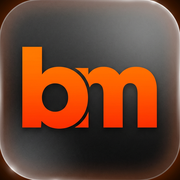
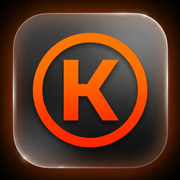
Add files via upload

diff --git a/index.html b/index.html
@@ -3,13 +3,13 @@
 <head>
 <meta charset="utf-8">
 <meta name="viewport" content="width=device-width, initial-scale=1, viewport-fit=cover">
-<title>Кирилл — bumazhnyk AI</title>
+<title>Кирилл — kenwerz</title>
 <meta name="description" content="Кирилл — AI-креатор. Видео и визуал для бизнеса: реклама, объяснение услуг, визуализация. Кейсы, услуги, контакты.">
 <meta property="og:type" content="website">
-<meta property="og:title" content="Кирилл — bumazhnyk AI">
+<meta property="og:title" content="Кирилл — kenwerz">
 <meta property="og:description" content="AI-видео и визуал для бизнеса: реклама, объяснение услуг, визуализация.">
 <meta name="theme-color" content="#070707">
[2 lines of base64/hex data omitted]
 <link rel="icon" href="/favicon.ico" sizes="48x48">
 <link rel="apple-touch-icon" href="/apple-touch-icon.png">
 <link rel="preconnect" href="https://fonts.googleapis.com">
@@ -182,9 +182,8 @@ body{transition:background-color .35s,color .35s}
 @media(max-width:620px){.wr{width:38px;height:38px;padding:0;display:grid;place-items:center}.wr span{display:none}.wr .wi{display:block}}
 @media(max-width:480px){.wr{width:34px;height:34px;padding:0}}
 .ics{gap:14px}
-.ic{height:58px;padding:0 24px 0 18px;border-radius:999px;display:inline-flex;align-items:center;gap:12px;font:600 16px var(--font);color:#fff;text-decoration:none;background:linear-gradient(135deg,var(--o1),var(--o2));box-shadow:0 8px 26px rgba(255,90,0,.4);transition:transform .25s,box-shadow .25s}
-.ic svg{width:24px;height:24px;flex:none}
-.ic span{white-space:nowrap}
+.ic{width:60px;height:60px;border-radius:50%;display:grid;place-items:center;color:#fff;text-decoration:none;background:linear-gradient(135deg,var(--o1),var(--o2));box-shadow:0 8px 26px rgba(255,90,0,.4);transition:transform .25s,box-shadow .25s}
+.ic svg{width:26px;height:26px}
 .ic:hover{transform:translateY(-3px) scale(1.05);box-shadow:0 12px 32px rgba(255,90,0,.55)}
 [data-theme="light"] .ic{box-shadow:0 8px 22px rgba(21,96,214,.32)}
 [data-theme="light"] .ic:hover{box-shadow:0 12px 30px rgba(21,96,214,.45)}
@@ -193,7 +192,7 @@ body{transition:background-color .35s,color .35s}
 <body>
 <div class="wrap" id="top">
   <header>
-    <a class="brand" href="#top"><b>bumazhnyk AI</b></a>
+    <a class="brand" href="#top"><b>kenwerz</b></a>
     <div class="hr">
       <button class="theme" id="theme" type="button" aria-label="Theme" title="Theme"><svg class="sun" viewBox="0 0 24 24" fill="none" stroke="currentColor" stroke-width="2" stroke-linecap="round" aria-hidden="true"><circle cx="12" cy="12" r="4"/><path d="M12 2v2M12 20v2M4.9 4.9l1.4 1.4M17.7 17.7l1.4 1.4M2 12h2M20 12h2M4.9 19.1l1.4-1.4M17.7 6.3l1.4-1.4"/></svg><svg class="moon" viewBox="0 0 24 24" fill="none" stroke="currentColor" stroke-width="2" stroke-linecap="round" stroke-linejoin="round" aria-hidden="true"><path d="M21 12.8A9 9 0 1 1 11.2 3a7 7 0 0 0 9.8 9.8z"/></svg></button>
       <div class="lang" role="group" aria-label="Language"><button data-l="ru">RU</button><button data-l="en">EN</button><button data-l="uk">UA</button></div>
@@ -249,12 +248,12 @@ body{transition:background-color .35s,color .35s}
       <h2 data-i="contT"></h2>
       <div class="contact glass">
         <p data-i="contP"></p>
-        <div class="btns ics"><a class="ic tg" href="https://t.me/bumazhnyk" target="_blank" rel="noopener" aria-label="Telegram" title="Telegram"><svg viewBox="0 0 24 24" fill="none" stroke="currentColor" stroke-width="2" stroke-linecap="round" stroke-linejoin="round" aria-hidden="true"><line x1="22" y1="2" x2="11" y2="13"/><polygon points="22 2 15 22 11 13 2 9 22 2"/></svg><span>bumazhnyk</span></a><a class="ic" href="mailto:bumazhnyk@gmail.com" aria-label="Email" title="bumazhnyk@gmail.com"><svg viewBox="0 0 24 24" fill="none" stroke="currentColor" stroke-width="2" stroke-linecap="round" stroke-linejoin="round" aria-hidden="true"><rect x="3" y="5" width="18" height="14" rx="3"/><path d="m4 7.5 8 6 8-6"/></svg><span>bumazhnyk@gmail.com</span></a></div>
+        <div class="btns ics"><a class="ic tg" href="https://t.me/bumazhnyk" target="_blank" rel="noopener" aria-label="Telegram" title="Telegram"><svg viewBox="0 0 24 24" fill="none" stroke="currentColor" stroke-width="2" stroke-linecap="round" stroke-linejoin="round" aria-hidden="true"><line x1="22" y1="2" x2="11" y2="13"/><polygon points="22 2 15 22 11 13 2 9 22 2"/></svg></a><a class="ic" href="mailto:bumazhnyk@gmail.com" aria-label="Email" title="bumazhnyk@gmail.com"><svg viewBox="0 0 24 24" fill="none" stroke="currentColor" stroke-width="2" stroke-linecap="round" stroke-linejoin="round" aria-hidden="true"><rect x="3" y="5" width="18" height="14" rx="3"/><path d="m4 7.5 8 6 8-6"/></svg></a></div>
       </div>
       <div class="quick"><span data-i="quick"></span><div id="qk"></div></div>
     </section>
   </main>
-  <footer>© 2026 Кирилл · bumazhnyk AI</footer>
+  <footer>© 2026 Кирилл · kenwerz</footer>
 </div>
 
 <dialog id="dlg"><div class="modal glass">
@@ -264,48 +263,117 @@ body{transition:background-color .35s,color .35s}
 
 <script>
 const T={
-ru:{role:"AI-креатор · видео и визуал для бизнеса",h1:["Видео, которое привлекает","<b>клиентов</b>, без съёмочной","группы и студии"],
+ru:{role:"AI-креатор · видео и визуал для бизнеса",
+ h1:["Видео, которое привлекает","<b>клиентов</b>, без съёмочной","группы и студии"],
  sub:"Меня зовут <b>Кирилл</b>. Создаю AI-видео и визуал под вашу задачу: привлечь охваты, объяснить услугу или показать то, что сложно снять. Вы получаете готовый материал, а не набор красивых картинок.",
- c1:"Готово под вашу площадку",c2:"Показываю то, что дорого снять",c3:"Узнаваемый стиль бренда",cta:"Обсудить проект",ghW:"Cases",ghS:"Value",
- worksT:"Кейсы",servT:"Что вы <b>получаете</b>",toolsT:"Инструменты",revT:"Отзывы",rev:"Здесь появятся отзывы клиентов.",contT:"Обсудим вашу <b>задачу</b>",contP:"Опишите, что нужно показать и где будет жить видео. Предложу формат и сроки.",
- hi:"Привет!",nav1:"Кейсы",nav2:"Услуги",nav3:"Контакты",write:"Написать",quick:"Быстрый старт: выберите тему, и сообщение в Telegram уже будет написано.",tgmsg:"Здравствуйте, Кирилл! Хочу обсудить видео. Моя задача: ",tgq:"Здравствуйте, Кирилл! Хочу обсудить: ",views:"просмотров",lviews:"Результат",snd:"Включить звук",close:"Закрыть",watch:"Видео скоро будет здесь",lt:"Ниша",ltask:"Задача",lsol:"Решение",lfmt:"Формат",
+ c1:"Готово под вашу площадку",
+ c2:"Показываю то, что дорого снять",
+ c3:"Узнаваемый стиль бренда",
+ cta:"Обсудить проект",
+ ghW:"Cases",
+ ghS:"Value",
+ worksT:"Кейсы",
+ servT:"Что вы <b>получаете</b>",
+ toolsT:"Инструменты",
+ revT:"Отзывы",
+ rev:"Здесь появятся отзывы клиентов.",
+ contT:"Обсудим вашу <b>задачу</b>",
+ contP:"Опишите, что нужно показать и где будет жить видео. Предложу формат и сроки.",
+ hi:"Привет!",
+ nav1:"Кейсы",
+ nav2:"Услуги",
+ nav3:"Контакты",
+ write:"Написать",
+ quick:"Быстрый старт: выберите тему, и сообщение в Telegram уже будет написано.",
+ tgmsg:"Здравствуйте, Кирилл! Хочу обсудить видео. Моя задача: ",
+ tgq:"Здравствуйте, Кирилл! Хочу обсудить: ",
+ views:"просмотров",
+ lviews:"Результат",
+ snd:"Включить звук",
+ close:"Закрыть",
+ watch:"Видео скоро будет здесь",
+ lt:"Ниша",
+ ltask:"Задача",
+ lsol:"Решение",
+ lfmt:"Формат",
  serv:[["Видео для продвижения","Рекламные и имиджевые ролики, которые собирают охваты и запоминаются."],["Объяснение услуги","Наглядное видео: клиент понимает ценность ещё до первого звонка."],["Визуализация","Процессы, продукты и результаты, которые сложно или дорого снять."],["Контент для бренда","Единый визуальный стиль: видео, изображения, обложки."]],
- w:[{n:"Sublimini store",tag:"Сублимированные фрукты",v:"500K+",s:"Выделить бренд и набрать охваты через сюжет на контрасте поколений.",task:"Рассказать о продукте так, чтобы ролик набирал охваты, а бренд запоминался.",sol:"Сюжет-сравнение двух подходов: бабушкин и современной мамы. Преимущество продукта раскрывается через историю, а не прямую рекламу.",fmt:"Reels · сюжетный ролик"},
- {n:"Lumina · Герметизация фиссур",tag:"Стоматология",v:"80K",s:"Детально показать, как проходит герметизация фиссур.",task:"Детально и наглядно продемонстрировать процесс герметизации фиссур, чтобы пациенты понимали, что происходит с зубом и зачем это нужно.",sol:"AI-визуализация каждого этапа процедуры крупным планом в динамичном вертикальном видео.",fmt:"Reels · AI-визуализация"},
- {n:"Lumina · Имплантация",tag:"Стоматология",v:"",s:"Наглядно показать пациентам ход и результат имплантации.",task:"Объяснить пациентам, как проходит имплантация и каким становится результат, понятно и без тяжёлых медицинских кадров.",sol:"AI-визуализация этапов процедуры и демонстрация готового результата в динамичном вертикальном видео.",fmt:"Reels · AI-визуализация"},
- {n:"Окно",tag:"Гиперреализм · Сюжет",v:"",s:"Кинематографичная история, где гиперреализм работает на сюжет.",task:"Показать, на что способен AI-видеопродакшн в игровом кино: удержать фотореализм, живую актёрскую игру и цельную историю без съёмочной группы.",sol:"Сюжет о девушке и таинственном пульте, который меняет реальность за окном. Реалистичный свет, кожа и мимика, неизменный образ героини от кадра к кадру и плавный переход от бытовой сцены к сюрреалистичным пейзажам.",fmt:"Кинематографичный ролик · 16:9"},
- {n:"Подруги в старости",tag:"3D-мультфильм",v:"",s:"Персональный анимационный подарок: две подруги в образе из будущего.",task:"Клиентка обратилась с запросом создать видео о себе и подруге в старости: тёплое, стильное, с юмором, которым хочется поделиться.",sol:"Индивидуальная 3D-анимация в стиле полнометражного мультфильма. Героини узнаваемы по характеру и образу, а сюжет ведёт от видеозвонка к путешествию по Лазурному берегу: яхты, шопинг, спа и вечерний выход. Продуманная драматургия и кинематографичная подача.",fmt:"Reels · персональный анимационный ролик"},
- {n:"Витрина",tag:"Ретро-нуар",v:"",s:"Стилизованная киноистория в эстетике 80-х с цельной визуальной режиссурой.",task:"Показать, что AI-видео может не только объяснять и продавать, но и рассказывать полноценную киноисторию с выдержанным стилем, светом и актёрской подачей.",sol:"Динамичный сюжет в духе ретро-нуара: ночной город в сумерках, разбитая витрина, дерзкая поездка на кабриолете и кадр на Polaroid. Единый киношный цветокор с неоном и закатным небом, узнаваемая героиня на протяжении всего ролика, нарастающий темп монтажа и субтитры.",fmt:"Кинематографичный ролик · 16:9"}]},
-en:{role:"AI creator · video and visuals for business",h1:["Video that attracts","<b>clients</b>, without a crew","or a studio"],
+ w:[{"n":"Точка невозврата","tag":"Кинотрейлер · Драма","v":"","s":"Тёмная криминальная драма с кинематографичным светом и живой актёрской игрой.","task":"Показать, что AI-видео способно держать напряжение полноценного кино: драматургию, атмосферу и узнаваемых героев на протяжении всего ролика.","sol":"Трейлерный монтаж в эстетике нуара: ночные локации, дым и контровой свет, крупные планы героини, которая ведёт историю, напряжённые сцены и пожар в финале. Единый цветокор и стабильные образы персонажей от кадра к кадру.","fmt":"Кинематографичный ролик · 16:9"},{"n":"Lumina · Ортодонтия","tag":"Стоматология","v":"","s":"Наглядно показать путь от неровного прикуса к ровной улыбке.","task":"Объяснить пациентам, как проходит исправление прикуса и каким становится результат, чтобы снять сомнения перед лечением.","sol":"Пошаговая визуализация лечения крупным планом: исходное положение зубов, этап с брекет-системой, ретейнер и итоговая улыбка. Чистый свет и понятная последовательность без тяжёлых медицинских кадров.","fmt":"Ролик · AI-визуализация · 16:9"},{"n":"Окно","tag":"Гиперреализм · Сюжет","v":"","s":"Кинематографичная история, где гиперреализм работает на сюжет.","task":"Показать, на что способен AI-видеопродакшн в игровом кино: удержать фотореализм, живую актёрскую игру и цельную историю без съёмочной группы.","sol":"Сюжет о девушке и таинственном пульте, который меняет реальность за окном. Реалистичный свет, кожа и мимика, неизменный образ героини от кадра к кадру и плавный переход от бытовой сцены к сюрреалистичным пейзажам.","fmt":"Кинематографичный ролик · 16:9"},{"n":"Lumina · Имплантация","tag":"Стоматология","v":"","s":"Наглядно показать пациентам ход и результат имплантации.","task":"Объяснить пациентам, как проходит имплантация и каким становится результат, понятно и без тяжёлых медицинских кадров.","sol":"AI-визуализация этапов процедуры и демонстрация готового результата в динамичном вертикальном видео.","fmt":"Reels · AI-визуализация"},{"n":"Lumina Vita · Постер","tag":"Бренд · Рекламный ролик","v":"","s":"Рекламный ролик, где постер оживает и раскрывает образ бренда.","task":"Эффектно показать бренд Lumina Vita, чтобы ролик цеплял с первых секунд и работал на узнаваемость.","sol":"История с большим постером на фасаде: героиня подходит и отрывает кусок бумаги, а под ним раскрывается образ. Макро-планы рук и рваной бумаги, мягкий дневной свет, живая фактура и логотип бренда в кадре.","fmt":"Reels · рекламный ролик"},{"n":"Витрина","tag":"Ретро-нуар","v":"","s":"Стилизованная киноистория в эстетике 80-х с цельной визуальной режиссурой.","task":"Показать, что AI-видео может не только объяснять и продавать, но и рассказывать полноценную киноисторию с выдержанным стилем, светом и актёрской подачей.","sol":"Динамичный сюжет в духе ретро-нуара: ночной город в сумерках, разбитая витрина, дерзкая поездка на кабриолете и кадр на Polaroid. Единый киношный цветокор с неоном и закатным небом, узнаваемая героиня на протяжении всего ролика, нарастающий темп монтажа и субтитры.","fmt":"Кинематографичный ролик · 16:9"}]},
+en:{role:"AI creator · video and visuals for business",
+ h1:["Video that attracts","<b>clients</b>, without a crew","or a studio"],
  sub:"My name is <b>Kirill</b>. I create AI video and visuals for your goal: win reach, explain a service, or show what is hard to film. You get ready-to-use material, not a set of pretty pictures.",
- c1:"Ready for your platform",c2:"Shows what is costly to film",c3:"Recognizable brand style",cta:"Discuss a project",ghW:"Cases",ghS:"Value",
- worksT:"Cases",servT:"What you <b>get</b>",toolsT:"Tools",revT:"Reviews",rev:"Client reviews will appear here.",contT:"Let's discuss your <b>task</b>",contP:"Describe what needs to be shown and where the video will live. I'll suggest a format and timing.",
- hi:"Hi!",nav1:"Cases",nav2:"Services",nav3:"Contact",write:"Write me",quick:"Quick start: pick a topic and the Telegram message is already written.",tgmsg:"Hi Kirill! I'd like to discuss a video. My task: ",tgq:"Hi Kirill! I'd like to discuss: ",views:"views",lviews:"Result",snd:"Turn sound on",close:"Close",watch:"Video coming soon",lt:"Industry",ltask:"Task",lsol:"Solution",lfmt:"Format",
+ c1:"Ready for your platform",
+ c2:"Shows what is costly to film",
+ c3:"Recognizable brand style",
+ cta:"Discuss a project",
+ ghW:"Cases",
+ ghS:"Value",
+ worksT:"Cases",
+ servT:"What you <b>get</b>",
+ toolsT:"Tools",
+ revT:"Reviews",
+ rev:"Client reviews will appear here.",
+ contT:"Let's discuss your <b>task</b>",
+ contP:"Describe what needs to be shown and where the video will live. I'll suggest a format and timing.",
+ hi:"Hi!",
+ nav1:"Cases",
+ nav2:"Services",
+ nav3:"Contact",
+ write:"Write me",
+ quick:"Quick start: pick a topic and the Telegram message is already written.",
+ tgmsg:"Hi Kirill! I'd like to discuss a video. My task: ",
+ tgq:"Hi Kirill! I'd like to discuss: ",
+ views:"views",
+ lviews:"Result",
+ snd:"Turn sound on",
+ close:"Close",
+ watch:"Video coming soon",
+ lt:"Industry",
+ ltask:"Task",
+ lsol:"Solution",
+ lfmt:"Format",
  serv:[["Promo video","Ad and brand videos that win reach and stay in memory."],["Service explainer","A clear video: clients grasp the value before the first call."],["Visualization","Processes, products and results that are hard or costly to film."],["Brand content","One visual style: video, images, covers."]],
- w:[{n:"Sublimini store",tag:"Freeze-dried fruit",v:"500K+",s:"Stand out and gain reach through a story of two generations.",task:"Present the product so the video wins reach and the brand is remembered.",sol:"A story comparing two approaches: grandma's and a modern mom's. The product's advantage emerges from the story, not direct advertising.",fmt:"Reels · story video"},
- {n:"Lumina · Fissure sealing",tag:"Dental clinic",v:"80K",s:"Show in detail how fissure sealing is done.",task:"Demonstrate the fissure sealing process in detail, so patients understand what happens to the tooth and why it matters.",sol:"AI visualization of every stage of the procedure in close-up, in a dynamic vertical video.",fmt:"Reels · AI visualization"},
- {n:"Lumina · Dental implants",tag:"Dental clinic",v:"",s:"Show patients the process and result of an implant clearly.",task:"Explain to patients how an implant procedure goes and what the result looks like, clearly and without heavy medical footage.",sol:"AI visualization of the procedure stages and a showcase of the finished result in a dynamic vertical video.",fmt:"Reels · AI visualization"},
- {n:"The Window",tag:"Hyperrealism · Story",v:"",s:"A cinematic story where hyperrealism serves the plot.",task:"Show what AI video production can do in narrative film: keep photorealism, natural acting and a coherent story without a film crew.",sol:"A story about a girl and a mysterious remote that changes the reality outside her window. Realistic light, skin and facial expressions, a consistent look for the heroine from shot to shot, and a smooth shift from an everyday scene to surreal landscapes.",fmt:"Cinematic video · 16:9"},
- {n:"Friends in Old Age",tag:"3D animation",v:"",s:"A personal animated gift: two friends as they will be in the future.",task:"A client asked for a video of herself and her friend in old age: warm, stylish and funny enough that they would want to share it.",sol:"A custom 3D animation in the style of a feature-length cartoon. The heroines are recognizable by character and look, and the story moves from a video call to a trip along the French Riviera: yachts, shopping, spa and an evening out. Considered storytelling and a cinematic finish.",fmt:"Reels · personal animated video"},
- {n:"Shop Window",tag:"Retro noir",v:"",s:"A stylized cinematic story in 80s aesthetics with cohesive visual direction.",task:"Show that AI video can do more than explain and sell: it can tell a full cinematic story with a consistent style, lighting and acting.",sol:"A dynamic retro-noir plot: a dusk city at night, a shattered shop window, a bold ride in a convertible and a Polaroid snapshot. One cinematic color grade with neon and a sunset sky, a recognizable heroine throughout, a building editing tempo and subtitles.",fmt:"Cinematic video · 16:9"}]},
-uk:{role:"AI-креатор · відео та візуал для бізнесу",h1:["Відео, яке залучає","<b>клієнтів</b>, без знімальної","групи та студії"],
+ w:[{"n":"Point of No Return","tag":"Cinematic trailer · Drama","v":"","s":"A dark crime drama with cinematic lighting and natural acting.","task":"Show that AI video can hold the tension of a full film: drama, atmosphere and recognizable characters throughout the whole piece.","sol":"A noir-style trailer cut: night locations, smoke and backlight, close-ups of the heroine who leads the story, tense scenes and a burning house in the finale. One consistent color grade and stable characters from shot to shot.","fmt":"Cinematic video · 16:9"},{"n":"Lumina · Orthodontics","tag":"Dental clinic","v":"","s":"Show the path from crooked teeth to an even smile.","task":"Explain to patients how bite correction works and what the result looks like, to ease doubts before treatment.","sol":"A step-by-step close-up visualization of treatment: the starting position of the teeth, the braces stage, the retainer and the final smile. Clean light and a clear sequence without heavy medical footage.","fmt":"Video · AI visualization · 16:9"},{"n":"The Window","tag":"Hyperrealism · Story","v":"","s":"A cinematic story where hyperrealism serves the plot.","task":"Show what AI video production can do in narrative film: keep photorealism, natural acting and a coherent story without a film crew.","sol":"A story about a girl and a mysterious remote that changes the reality outside her window. Realistic light, skin and facial expressions, a consistent look for the heroine from shot to shot, and a smooth shift from an everyday scene to surreal landscapes.","fmt":"Cinematic video · 16:9"},{"n":"Lumina · Dental implants","tag":"Dental clinic","v":"","s":"Show patients the process and result of an implant clearly.","task":"Explain to patients how an implant procedure goes and what the result looks like, clearly and without heavy medical footage.","sol":"AI visualization of the procedure stages and a showcase of the finished result in a dynamic vertical video.","fmt":"Reels · AI visualization"},{"n":"Lumina Vita · Poster","tag":"Brand · Promo video","v":"","s":"A promo video where a poster comes alive and reveals the brand image.","task":"Present the Lumina Vita brand with impact, so the video hooks from the first seconds and builds recognition.","sol":"A story built around a large poster on a building facade: the heroine walks up and tears off a piece of paper, revealing the image beneath. Macro shots of hands and torn paper, soft daylight, tactile texture and the brand logo in frame.","fmt":"Reels · promo video"},{"n":"Shop Window","tag":"Retro noir","v":"","s":"A stylized cinematic story in 80s aesthetics with cohesive visual direction.","task":"Show that AI video can do more than explain and sell: it can tell a full cinematic story with a consistent style, lighting and acting.","sol":"A dynamic retro-noir plot: a dusk city at night, a shattered shop window, a bold ride in a convertible and a Polaroid snapshot. One cinematic color grade with neon and a sunset sky, a recognizable heroine throughout, a building editing tempo and subtitles.","fmt":"Cinematic video · 16:9"}]},
+uk:{role:"AI-креатор · відео та візуал для бізнесу",
+ h1:["Відео, яке залучає","<b>клієнтів</b>, без знімальної","групи та студії"],
  sub:"Мене звати <b>Кіріл</b>. Створюю AI-відео та візуал під вашу задачу: залучити охоплення, пояснити послугу або показати те, що складно зняти. Ви отримуєте готовий матеріал, а не набір гарних картинок.",
- c1:"Готово під вашу площадку",c2:"Показую те, що дорого зняти",c3:"Впізнаваний стиль бренду",cta:"Обговорити проєкт",ghW:"Cases",ghS:"Value",
- worksT:"Кейси",servT:"Що ви <b>отримуєте</b>",toolsT:"Інструменти",revT:"Відгуки",rev:"Тут з'являться відгуки клієнтів.",contT:"Обговоримо вашу <b>задачу</b>",contP:"Опишіть, що потрібно показати і де житиме відео. Запропоную формат і терміни.",
- hi:"Привіт!",nav1:"Кейси",nav2:"Послуги",nav3:"Контакти",write:"Написати",quick:"Швидкий старт: оберіть тему, і повідомлення в Telegram уже буде написане.",tgmsg:"Вітаю, Кіріл! Хочу обговорити відео. Моя задача: ",tgq:"Вітаю, Кіріл! Хочу обговорити: ",views:"переглядів",lviews:"Результат",snd:"Увімкнути звук",close:"Закрити",watch:"Відео скоро буде тут",lt:"Ніша",ltask:"Задача",lsol:"Рішення",lfmt:"Формат",
+ c1:"Готово під вашу площадку",
+ c2:"Показую те, що дорого зняти",
+ c3:"Впізнаваний стиль бренду",
+ cta:"Обговорити проєкт",
+ ghW:"Cases",
+ ghS:"Value",
+ worksT:"Кейси",
+ servT:"Що ви <b>отримуєте</b>",
+ toolsT:"Інструменти",
+ revT:"Відгуки",
+ rev:"Тут з'являться відгуки клієнтів.",
+ contT:"Обговоримо вашу <b>задачу</b>",
+ contP:"Опишіть, що потрібно показати і де житиме відео. Запропоную формат і терміни.",
+ hi:"Привіт!",
+ nav1:"Кейси",
+ nav2:"Послуги",
+ nav3:"Контакти",
+ write:"Написати",
+ quick:"Швидкий старт: оберіть тему, і повідомлення в Telegram уже буде написане.",
+ tgmsg:"Вітаю, Кіріл! Хочу обговорити відео. Моя задача: ",
+ tgq:"Вітаю, Кіріл! Хочу обговорити: ",
+ views:"переглядів",
+ lviews:"Результат",
+ snd:"Увімкнути звук",
+ close:"Закрити",
+ watch:"Відео скоро буде тут",
+ lt:"Ніша",
+ ltask:"Задача",
+ lsol:"Рішення",
+ lfmt:"Формат",
  serv:[["Відео для просування","Рекламні та іміджеві ролики, які збирають охоплення й запам'ятовуються."],["Пояснення послуги","Наочне відео: клієнт розуміє цінність ще до першого дзвінка."],["Візуалізація","Процеси, продукти та результати, які складно або дорого зняти."],["Контент для бренду","Єдиний візуальний стиль: відео, зображення, обкладинки."]],
- w:[{n:"Sublimini store",tag:"Сублімовані фрукти",v:"500K+",s:"Виділити бренд і набрати охоплення через сюжет про два покоління.",task:"Розповісти про продукт так, щоб ролик набирав охоплення, а бренд запам'ятовувався.",sol:"Сюжет-порівняння двох підходів: бабусиного та сучасної мами. Перевага продукту розкривається через історію, а не пряму рекламу.",fmt:"Reels · сюжетний ролик"},
- {n:"Lumina · Герметизація фісур",tag:"Стоматологія",v:"80K",s:"Детально показати, як проходить герметизація фісур.",task:"Детально й наочно продемонструвати процес герметизації фісур, щоб пацієнти розуміли, що відбувається із зубом і навіщо це потрібно.",sol:"AI-візуалізація кожного етапу процедури великим планом у динамічному вертикальному відео.",fmt:"Reels · AI-візуалізація"},
- {n:"Lumina · Імплантація",tag:"Стоматологія",v:"",s:"Наочно показати пацієнтам хід і результат імплантації.",task:"Пояснити пацієнтам, як проходить імплантація та яким стає результат, зрозуміло й без важких медичних кадрів.",sol:"AI-візуалізація етапів процедури та демонстрація готового результату в динамічному вертикальному відео.",fmt:"Reels · AI-візуалізація"},
- {n:"Вікно",tag:"Гіперреалізм · Сюжет",v:"",s:"Кінематографічна історія, де гіперреалізм працює на сюжет.",task:"Показати, на що здатний AI-відеопродакшн у ігровому кіно: втримати фотореалізм, живу акторську гру та цілісну історію без знімальної групи.",sol:"Сюжет про дівчину й таємничий пульт, який змінює реальність за вікном. Реалістичне світло, шкіра та міміка, незмінний образ героїні від кадру до кадру й плавний перехід від побутової сцени до сюрреалістичних пейзажів.",fmt:"Кінематографічний ролик · 16:9"},
- {n:"Подруги в старості",tag:"3D-мультфільм",v:"",s:"Персональний анімаційний подарунок: дві подруги в образі з майбутнього.",task:"Клієнтка звернулася із запитом створити відео про себе та подругу в старості: тепле, стильне, з гумором, яким хочеться поділитися.",sol:"Індивідуальна 3D-анімація у стилі повнометражного мультфільму. Героїні впізнавані за характером і образом, а сюжет веде від відеодзвінка до подорожі Лазурним узбережжям: яхти, шопінг, спа та вечірній вихід. Продумана драматургія й кінематографічна подача.",fmt:"Reels · персональний анімаційний ролик"},
- {n:"Вітрина",tag:"Ретро-нуар",v:"",s:"Стилізована кіноісторія в естетиці 80-х із цілісною візуальною режисурою.",task:"Показати, що AI-відео може не лише пояснювати й продавати, а й розповідати повноцінну кіноісторію з витриманим стилем, світлом і акторською подачею.",sol:"Динамічний сюжет у дусі ретро-нуару: нічне місто в присмерку, розбита вітрина, зухвала поїздка на кабріолеті та кадр на Polaroid. Єдиний кіношний колоркор із неоном і небом на заході сонця, впізнавана героїня протягом усього ролика, наростаючий темп монтажу й субтитри.",fmt:"Кінематографічний ролик · 16:9"}]}
+ w:[{"n":"Точка неповернення","tag":"Кінотрейлер · Драма","v":"","s":"Темна кримінальна драма з кінематографічним світлом і живою акторською грою.","task":"Показати, що AI-відео здатне тримати напругу повноцінного кіно: драматургію, атмосферу та впізнаваних героїв упродовж усього ролика.","sol":"Трейлерний монтаж в естетиці нуару: нічні локації, дим і контрове світло, великі плани героїні, яка веде історію, напружені сцени та пожежа у фіналі. Єдиний колоркор і стабільні образи персонажів від кадру до кадру.","fmt":"Кінематографічний ролик · 16:9"},{"n":"Lumina · Ортодонтія","tag":"Стоматологія","v":"","s":"Наочно показати шлях від нерівного прикусу до рівної усмішки.","task":"Пояснити пацієнтам, як проходить виправлення прикусу та яким стає результат, щоб зняти сумніви перед лікуванням.","sol":"Покрокова візуалізація лікування великим планом: початкове положення зубів, етап із брекет-системою, ретейнер і фінальна усмішка. Чисте світло та зрозуміла послідовність без важких медичних кадрів.","fmt":"Ролик · AI-візуалізація · 16:9"},{"n":"Вікно","tag":"Гіперреалізм · Сюжет","v":"","s":"Кінематографічна історія, де гіперреалізм працює на сюжет.","task":"Показати, на що здатний AI-відеопродакшн у ігровому кіно: втримати фотореалізм, живу акторську гру та цілісну історію без знімальної групи.","sol":"Сюжет про дівчину й таємничий пульт, який змінює реальність за вікном. Реалістичне світло, шкіра та міміка, незмінний образ героїні від кадру до кадру й плавний перехід від побутової сцени до сюрреалістичних пейзажів.","fmt":"Кінематографічний ролик · 16:9"},{"n":"Lumina · Імплантація","tag":"Стоматологія","v":"","s":"Наочно показати пацієнтам хід і результат імплантації.","task":"Пояснити пацієнтам, як проходить імплантація та яким стає результат, зрозуміло й без важких медичних кадрів.","sol":"AI-візуалізація етапів процедури та демонстрація готового результату в динамічному вертикальному відео.","fmt":"Reels · AI-візуалізація"},{"n":"Lumina Vita · Постер","tag":"Бренд · Рекламний ролик","v":"","s":"Рекламний ролик, де постер оживає й розкриває образ бренду.","task":"Ефектно показати бренд Lumina Vita, щоб ролик чіпляв з перших секунд і працював на впізнаваність.","sol":"Історія з великим постером на фасаді: героїня підходить і відриває шматок паперу, а під ним розкривається образ. Макроплани рук і рваного паперу, м'яке денне світло, жива фактура та логотип бренду в кадрі.","fmt":"Reels · рекламний ролик"},{"n":"Вітрина","tag":"Ретро-нуар","v":"","s":"Стилізована кіноісторія в естетиці 80-х із цілісною візуальною режисурою.","task":"Показати, що AI-відео може не лише пояснювати й продавати, а й розповідати повноцінну кіноісторію з витриманим стилем, світлом і акторською подачею.","sol":"Динамічний сюжет у дусі ретро-нуару: нічне місто в присмерку, розбита вітрина, зухвала поїздка на кабріолеті та кадр на Polaroid. Єдиний кіношний колоркор із неоном і небом на заході сонця, впізнавана героїня протягом усього ролика, наростаючий темп монтажу й субтитри.","fmt":"Кінематографічний ролик · 16:9"}]}
 };
 /* Видео: вставьте mp4-файл (video) или embed-ссылку YouTube/Vimeo (embed) */
-const V=[{p:"media/poster1.jpg",video:"media/video1.mp4",ar:"p"},
-{p:"media/poster2.jpg",video:"media/video2.mp4",ar:"p"},
-{p:"media/poster3.jpg",video:"media/video3.mp4",ar:"p"},
+const V=[{p:"media/poster1.jpg",video:"media/video1.mp4",ar:"l"},
+{p:"media/poster2.jpg",video:"media/video2.mp4",ar:"l"},
 {p:"media/poster4.jpg",video:"media/video4.mp4",ar:"l"},
+{p:"media/poster3.jpg",video:"media/video3.mp4",ar:"p"},
 {p:"media/poster5.jpg",video:"media/video5.mp4",ar:"p"},
 {p:"media/poster6.jpg",video:"media/video6.mp4",ar:"l"}];
 let L="ru";try{L=localStorage.getItem("lang")||(navigator.language||"ru").slice(0,2)}catch(e){}if(!T[L])L="ru";
